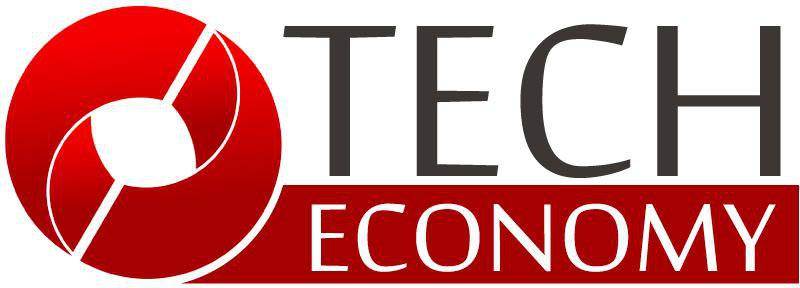
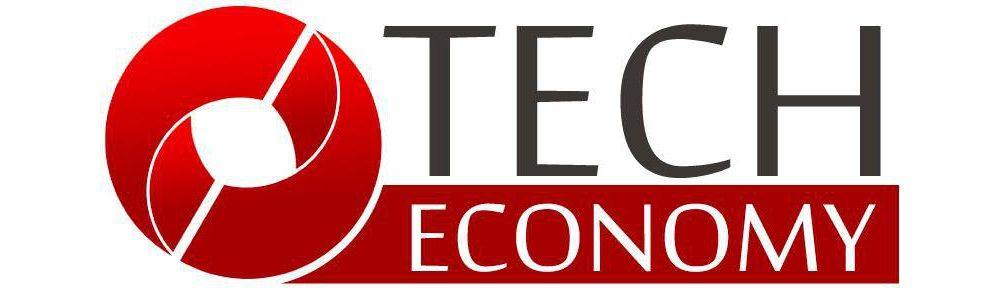
update

diff --git a/todi.html b/todi.html
@@ -146,14 +146,12 @@
                     <h3 class="section-title">Cosa è</h3>
                     <div class="elenco">
                         <ul >
-
                             <li>La manifestazione <strong>Drone It Better</strong> intende fare <strong>informazione organica</strong> su questi punti, raccontando cosa possono fare (e bene) i droni e come vanno usati per non far danno a se stessi o agli altri. L'iniziativa è promossa da <strong><a href="http://www.assorpas.it/" target="_blank">ASSORPAS</a></strong>, l'associazione nazionale che rappresenta la filiera italiana dei droni (costruttori ed operatori) e che rappresenta il settore in Confindustria.</li>
                             <li><strong>Drone It Better</strong> è un'iniziativa <strong>popolare</strong> e intende presentare in modo comprensibile a tutti contenuti rilevanti (anche di natura tecnica o legale) sul mondo dei droni.</li>
                             <li><strong>Drone It Better</strong> è un <strong>evento civico</strong> che coinvolge cittadini, istituzioni nazionali e locali, Forze dell'Ordine, ordini professionali e mondo della ricerca.</li>
                             <li><strong>Drone It Better</strong> è anche uno <strong>spazio espositivo selettivo</strong> che presenta le eccellenze tecnologiche italiane.</li>
                             <li><strong>Drone It Better</strong> è <strong>formazione</strong> grazie ai workshop tematici per adulti e ai laboratori per ragazzi e bambini.</li>
                             <li>Infine <strong>Drone It Better</strong> è un <strong>format</strong> perché l'evento di <strong>Jesolo</strong> è già il secondo di una serie che interesserà le principali città italiane.</li>
-
                         </ul>
                     </div>
                     <!-- <p>Drone It Better è la prima iniziativa in Italia che cerca di fare informazione organica su questi punti, raccontando cosa possono fare (e bene) i droni e come vanno usati per non far danno a se stessi o agli altri. L'iniziativa è promossa da ASSORPAS, l'associazione nazionale che rappresenta la filiera italiana dei droni (costruttori ed operatori) e che rappresenta il settore in Confindustria.</p>
@@ -645,13 +643,13 @@
         </div>
         <div class="row">
             <div class="col-sm-3">
-                <a href="#" target="_blank" class="partner-box partner-box-24"></a>
+                <a href="http://www.regione.umbria.it/home" target="_blank" class="partner-box partner-box-24"></a>
             </div>
             <div class="col-sm-3">
-                <a href="#" target="_blank" class="partner-box partner-box-25"></a>
+                <a href="http://www.comune.todi.pg.it/" target="_blank" class="partner-box partner-box-25"></a>
             </div>
             <div class="col-sm-3">
-                <a href="#" target="_blank" class="partner-box partner-box-26"></a>
+                <a href="https://www.enac.gov.it/Home/" target="_blank" class="partner-box partner-box-26"></a>
             </div>
             <div class="col-sm-3">
                 <a href="#" target="_blank" class="partner-box partner-box-27"></a>
@@ -659,10 +657,10 @@
         </div>
         <div class="row">
             <div class="col-sm-3">
-                <a href="https://elearning.unipd.it/dicea/" target="_blank" class="partner-box partner-box-28"></a>
+                <a href="" target="_blank" class="partner-box partner-box-28"></a>
             </div>
             <div class="col-sm-3">
-                <a href="#" target="_blank" class="partner-box partner-box-29"></a>
+                <a href="http://www.ordineingegneriperugia.it/" target="_blank" class="partner-box partner-box-29"></a>
             </div>
             <div class="col-sm-3">
                 <a href="#" target="_blank" class="partner-box partner-box-30"></a>
@@ -673,13 +671,13 @@
         </div>
         <div class="row">
             <div class="col-sm-3">
-                <a href="https://elearning.unipd.it/dicea/" target="_blank" class="partner-box partner-box-32"></a>
+                <a href="http://www.odgumbria.it/" target="_blank" class="partner-box partner-box-32"></a>
             </div>
             <div class="col-sm-3">
-                <a href="#" target="_blank" class="partner-box partner-box-33"></a>
+                <a href="http://www.peritiagrariumbria.it/" target="_blank" class="partner-box partner-box-33"></a>
             </div>
             <div class="col-sm-3">
-                <a href="#" target="_blank" class="partner-box partner-box-34"></a>
+                <a href="http://www.geometri.pg.it/" target="_blank" class="partner-box partner-box-34"></a>
             </div>
             <div class="col-sm-3">
                 <a href="#" target="_blank" class="partner-box partner-box-35"></a>
@@ -690,9 +688,13 @@
         <div class="container">
 
             <div class="row">
-                <div class="col-md-6">
+                <div class="col-md-3">
                     <h3>Media partner</h3>
-                    <a href="http://www.quadricottero.com/" target="_blank"><img class="img-responsive" src="./assets/images/LogoBanner_real_web.png"></a>
+                    <a href="http://www.quadricottero.com/" target="_blank"><img class="img-responsive" src="./assets/images/todi/LogoBanner_real_web.png"></a>
+                </div>
+                <div class="col-md-3">
+                    <h3>&nbsp;</h3>
+                    <a href="http://www.techeconomy.it/" target="_blank"><img class="img-responsive" src="./assets/images/todi/tech_economy1.jpg"></a>
                 </div>
                 <div class="col-md-6">
                     <h3>Staff ASSORPAS di Jesolo</h3> 
